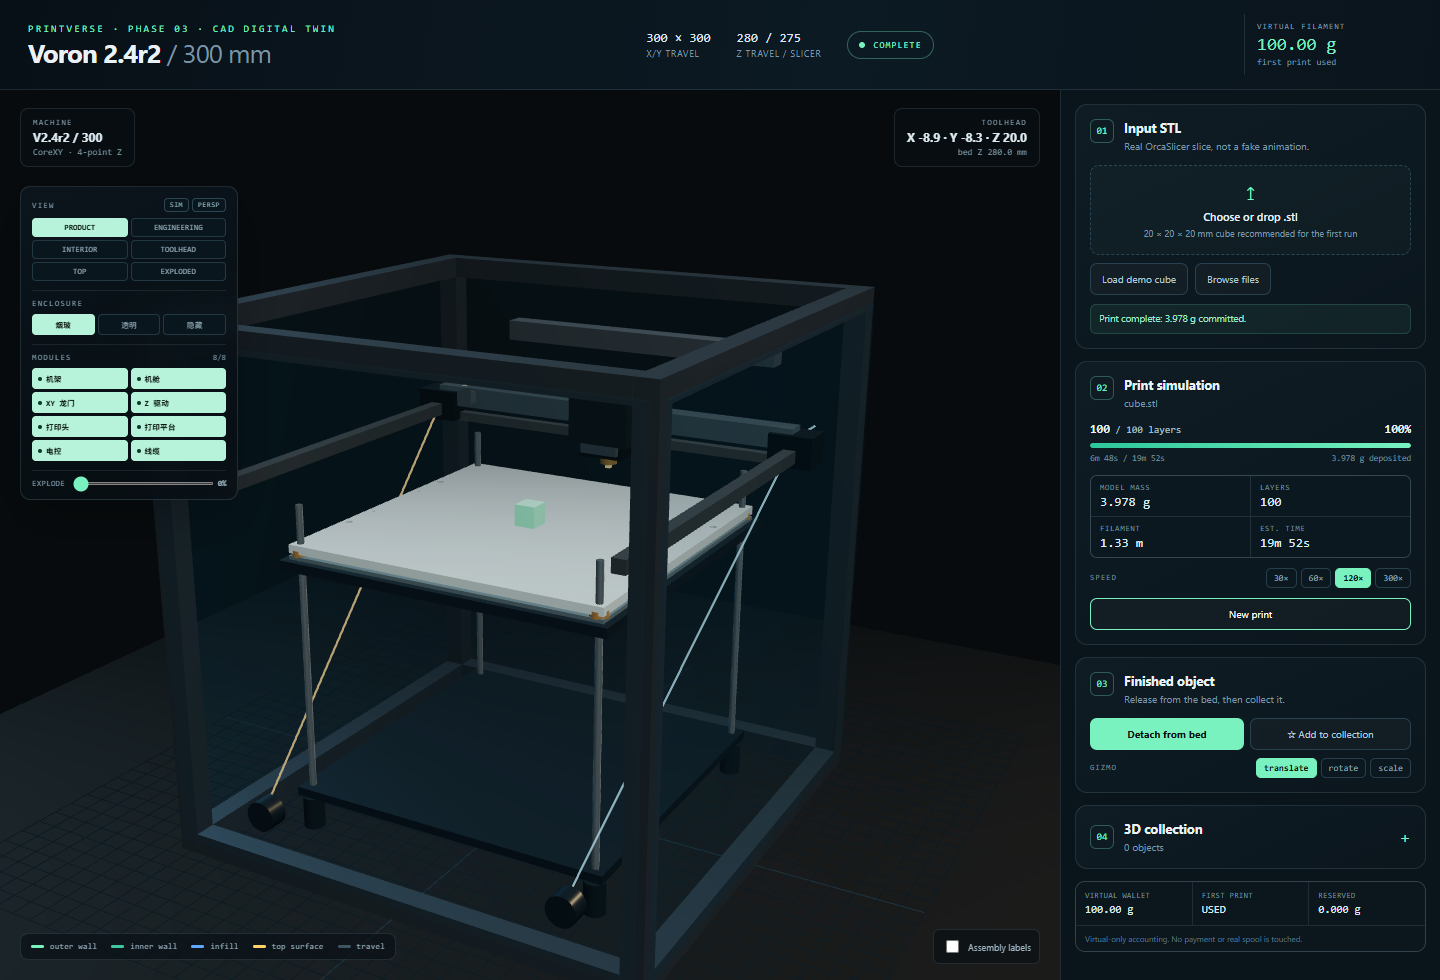
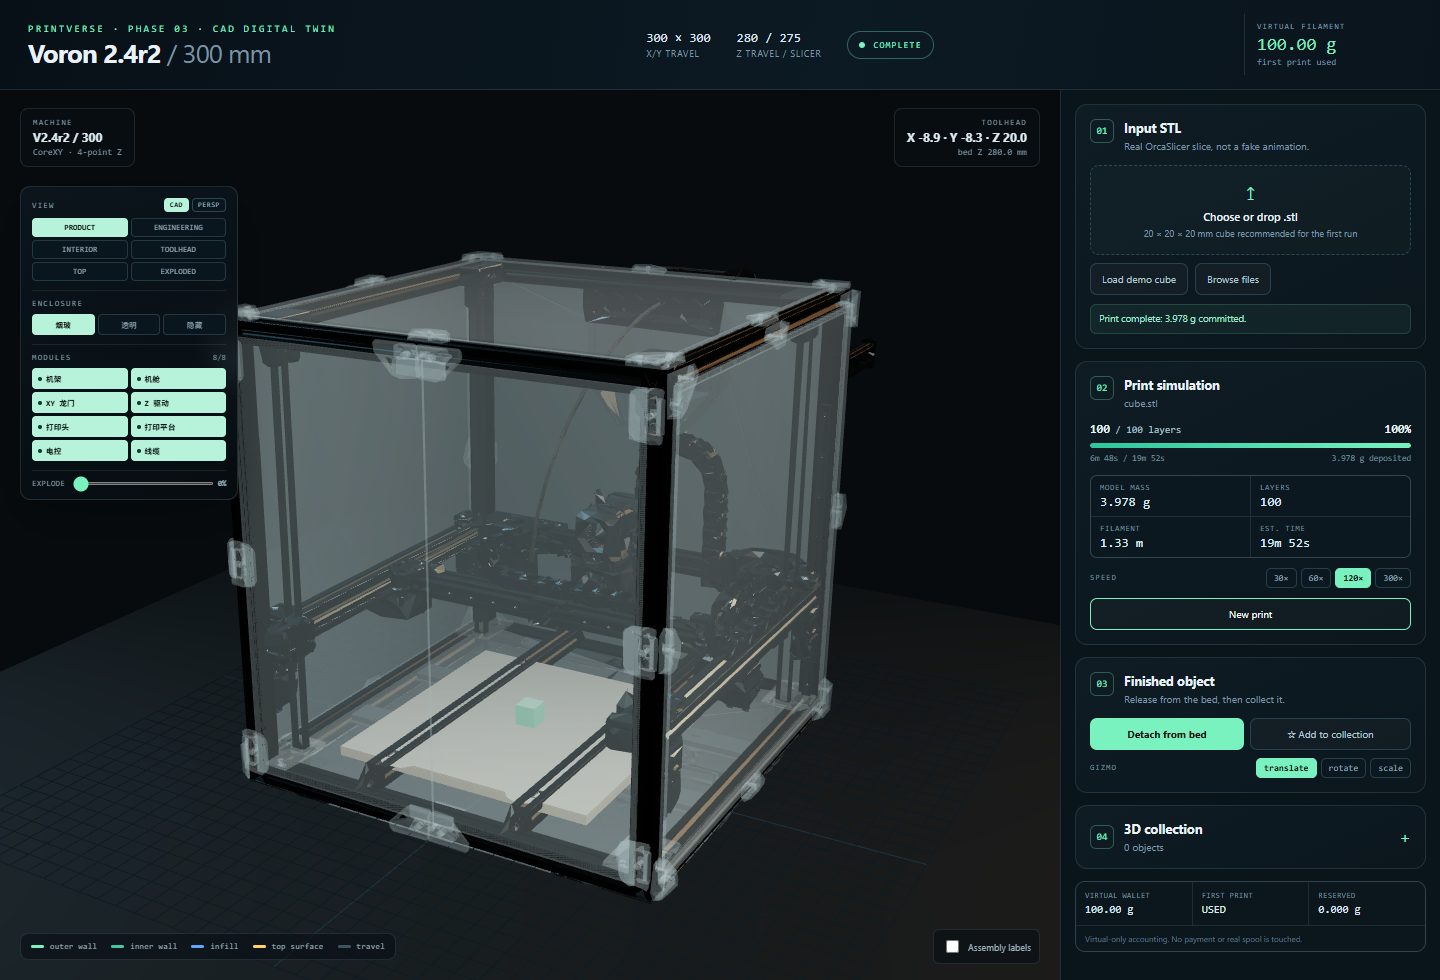
Drive real CAD toolhead and platform from G-code; final phase-3 evidence

Changed region(s): [[0.0938, 0.2449, 0.625, 1.0], [0.0, 0.6735, 0.0312, 0.7347], [0.0938, 0.1837, 0.125, 0.2143]]

diff --git a/frontend/src/components/RealModules.tsx b/frontend/src/components/RealModules.tsx
@@ -89,6 +89,7 @@ function Module({ id, url, visible, panelMode, ranges, onSelect }: {
 
 export function RealModules({
   visibleModules, panelMode, onSelect, zOffset = 0, explode = 0, highDetail = false, selectedPartId,
+  toolhead, bedZ,
 }: {
   visibleModules: Record<string, boolean>;
   panelMode: 'glass' | 'clear' | 'hidden';
@@ -97,6 +98,8 @@ export function RealModules({
   explode?: number;
   highDetail?: boolean;
   selectedPartId?: string | null;
+  toolhead?: { x: number; y: number };
+  bedZ?: number;
 }) {
   const [ranges, setRanges] = useState<Record<string, PartRange[]>>({});
   const [selected, setSelected] = useState<PartRecord | null>(null);
@@ -121,11 +124,19 @@ export function RealModules({
   } : null;
   return (
     <group position={[-127, -127, 58 + zOffset]} scale={1000}>
-      {Object.keys(MODULE_URLS).map((id) => (
-        <group key={id} position={[0, 0, explode * (id === 'TOOLHEAD' ? 0.25 : id === 'XY_GANTRY' ? 0.11 : id === 'Z_DRIVE' ? 0.055 : id === 'BUILD_PLATFORM' ? -0.08 : id === 'ELECTRONICS' ? 0.03 : 0)]}>
-          <Module id={id} url={(highDetail ? MODULE_URLS_HIGH : MODULE_URLS)[id]} visible={visibleModules[id] !== false} panelMode={panelMode} ranges={ranges[id] ?? []} onSelect={onSelect} />
-        </group>
-      ))}
+      {Object.keys(MODULE_URLS).map((id) => {
+        const motion: [number, number, number] = id === 'TOOLHEAD' && toolhead
+          ? [(toolhead.x - 6) / 1000, (toolhead.y - 15.5) / 1000, 0]
+          : id === 'BUILD_PLATFORM' && bedZ != null
+            ? [0, 0, (bedZ - 300) / 1000]
+            : [0, 0, 0];
+        const explodeZ = explode * (id === 'TOOLHEAD' ? 0.25 : id === 'XY_GANTRY' ? 0.11 : id === 'Z_DRIVE' ? 0.055 : id === 'BUILD_PLATFORM' ? -0.08 : id === 'ELECTRONICS' ? 0.03 : 0);
+        return (
+          <group key={id} position={[motion[0], motion[1], motion[2] + explodeZ]}>
+            <Module id={id} url={(highDetail ? MODULE_URLS_HIGH : MODULE_URLS)[id]} visible={visibleModules[id] !== false} panelMode={panelMode} ranges={ranges[id] ?? []} onSelect={onSelect} />
+          </group>
+        );
+      })}
       {selection && (
         <lineSegments geometry={edges} position={selection.center} scale={selection.size}>
           <lineBasicMaterial color="#79f2c0" transparent opacity={0.95} depthTest={false} />

diff --git a/frontend/src/components/PrintScene.tsx b/frontend/src/components/PrintScene.tsx
@@ -182,7 +182,21 @@ export function PrintScene({
 
       {cadMode ? (
         <Suspense fallback={null}>
-          <RealModules visibleModules={visibleModules} panelMode={panelMode} explode={explode} highDetail={viewPreset === 'toolhead' || viewPreset === 'interior'} selectedPartId={selectedPartName} onSelect={onPartSelect} />
+          <RealModules
+            visibleModules={visibleModules}
+            panelMode={panelMode}
+            explode={explode}
+            highDetail={viewPreset === 'toolhead' || viewPreset === 'interior'}
+            selectedPartId={selectedPartName}
+            toolhead={machineToolhead}
+            bedZ={tick.bedZ}
+            onSelect={onPartSelect}
+          />
+          {showPaths && (
+            <group position={[0, 0, tick.bedZ - 242]}>
+              <PrintPaths toolpath={toolpath} deposited={tick.deposited} />
+            </group>
+          )}
         </Suspense>
       ) : (
         <VoronMachine
@@ -194,7 +208,11 @@ export function PrintScene({
           explode={explode}
           visibleModules={visibleModules}
         >
-          {showPaths && <PrintPaths toolpath={toolpath} deposited={tick.deposited} />}
+          {showPaths && (
+            <group position={[0, 0, tick.bedZ]}>
+              <PrintPaths toolpath={toolpath} deposited={tick.deposited} />
+            </group>
+          )}
         </VoronMachine>
       )}
 
@@ -202,7 +220,7 @@ export function PrintScene({
         <Suspense fallback={null}>
           <FinishedObject
             modelUrl={modelUrl}
-            bedZ={tick.bedZ}
+            bedZ={cadMode ? tick.bedZ - 242 : tick.bedZ}
             detached={detached}
             mode={transformMode}
             showLabel={showLabels}

diff --git a/frontend/src/App.tsx b/frontend/src/App.tsx
@@ -134,7 +134,6 @@ export default function App() {
       setResetKey((n) => n + 1);
     }
     setError('');
-    setCadMode(false);
     setStatus('printing');
     setPlaying(true);
   }, [status, toolpath]);

diff --git a/scripts/build_manifest.py b/scripts/build_manifest.py
@@ -394,7 +394,7 @@ def main() -> int:
             "lod_bytes": 8919408,
             "hardware_fps": 60.1,
             "instancing": "PARTIAL / NOT_IMPLEMENTED",
-            "motion_hierarchy": "PARTIAL / CAD static display + proxy simulation",
+            "motion_hierarchy": "PARTIAL / toolhead+bed CAD motion; XY crossbeam static",
             "physical_z_clearance": "PHYSICAL_PENDING",
         },
         "blocked": [

diff --git a/PHASE3_COMPLETION_REPORT.md b/PHASE3_COMPLETION_REPORT.md
@@ -6,7 +6,7 @@ Date: 2026-11-06 · Project: PrintVerse · Machine: Voron V2.4r2 300
 
 | Goal | Status |
 |---|---|
-| A. Replace proxy geometry with real FreeCAD modules | **PARTIAL — major geometry COMPLETE; motion hierarchy not unified** |
+| A. Replace proxy geometry with real FreeCAD modules | **PARTIAL — real modules + toolhead/bed motion; XY crossbeam still static** |
 | B. High-end industrial 3D visual upgrade | **COMPLETE for the reviewed desktop views** |
 | 4,526 placements audit | **COMPLETE** |
 | Eight modular GLBs | **COMPLETE** |
@@ -17,9 +17,9 @@ Date: 2026-11-06 · Project: PrintVerse · Machine: Voron V2.4r2 300
 | Exact 275/280 resolution | **COMPLETE; physical clearance remains PHYSICAL_PENDING** |
 | Image-to-3D | **DEFERRED / BLOCKED by 8 GB VRAM** |
 
-Overall: **PARTIAL**. The visual and CAD conversion goals are substantially met, but two
-requirements are still open: the real CAD tree does not drive the G-code print animation, and
-repeated fasteners are merged rather than instanced. Neither is hidden.
+Overall: **PARTIAL**. The real CAD toolhead and platform now follow the G-code, but the XY
+crossbeam is still one merged static module and repeated fasteners are not instanced. Neither
+is hidden.
 
 ## 2. Current project state
 
@@ -116,10 +116,9 @@ Evidence: `docs/reports/phase2_e2e.json`.
 
 ## 6. Open items and next smallest steps
 
-1. **Unify motion tree (highest priority).** Use the real GLB module nodes for the G-code
-   animation instead of the proxy. The current `CAD` toggle switches to a static real model;
-   `SIM` switches to the proxy. Need one hierarchy with the moving toolhead/gantry/bed driven by
-   the same placement IDs and transforms.
+1. **Split the XY gantry crossbeam from its static rails.** The toolhead and platform now move
+   inside the real CAD hierarchy, but the whole XY_GANTRY module is still static. Split the
+   crossbeam into a movable node to complete CoreXY visualization.
 2. **InstancedMesh for fasteners.** Deduplicate screw/nut/washer geometry and use instanced
    matrices for the hundreds of repeated standard parts; keep part metadata in an instance map.
 3. **Wire harness.** WIRING currently has only one solid; cable-chain and wire geometry are
@@ -135,5 +134,6 @@ Evidence: `docs/reports/phase2_e2e.json`.
 
 The printer is no longer a decorative parts collage: the real frame, enclosure, gantry, Z drive,
 toolhead, platform, electronics and the one available wiring part are loaded from the official
-FreeCAD assembly. The default view is the real CAD model; the print animation still uses the
-separate kinematic proxy. This is why the overall phase status is **PARTIAL**, not COMPLETE.
+FreeCAD assembly. The toolhead and platform now move inside that real hierarchy during G-code
+playback. The XY crossbeam remains static and fasteners are not instanced, so the overall phase
+status is **PARTIAL**, not COMPLETE.

diff --git a/VISUAL_UPGRADE_REPORT.md b/VISUAL_UPGRADE_REPORT.md
@@ -59,7 +59,7 @@ The CAD mode uses a different target Z than the proxy so the real assembly is no
 
 After screenshots: `BEFORE_AFTER_SCREENSHOTS/after_front.png`, `after_interior.png`,
 `after_toolhead.png`, `after_top.png`, `after_z.png`, `after_bed.png`, `after_clear.png`,
-`after_exploded.png`, `after_part_inspector.png`, `after_cad_product.png`.
+`after_exploded.png`, `after_part_inspector.png`, `after_cad_product.png`, `after_printing_cad.png`.
 
 ## 3. Honest comparison
 
@@ -77,12 +77,12 @@ After screenshots: `BEFORE_AFTER_SCREENSHOTS/after_front.png`, `after_interior.p
 | Part identity | none | clickable placement with dimensions/path |
 | Transparency | fixed panel slab | glass/clear/hidden modes |
 | Explode | none | slider + preset |
-| Motion | proxy tree | proxy tree for print; real CAD tree is static |
+| Motion | proxy tree | real CAD toolhead and platform move with G-code; XY crossbeam static |
 
 ## 4. Still not complete
 
-1. The **real CAD tree is a static display**. The print animation still moves the proxy tree.
-   The requirement that motion and CAD share one hierarchy is **PARTIAL**.
+1. The real CAD toolhead and BUILD_PLATFORM now follow the G-code. The XY crossbeam is still
+   part of a static merged module, so the CoreXY gantry motion is **PARTIAL**.
 2. LOD is visible at close range on non-Toolhead modules; full detail is loaded only for
    Toolhead/Interior.
 3. `InstancedMesh` is not implemented; fasteners are merged into the LOD.

diff --git a/README.md b/README.md
@@ -8,8 +8,8 @@ AI 3D design platform, Voron V2.4r2 300 mm digital twin, G-code-driven virtual p
 >
 > Phase 3: **PARTIAL** — 4,526 FreeCAD placements, eight real module GLBs (1,686 parts), real
 > CAD default view with part picking, module modes, transparency, explode and studio lighting;
-> the G-code animation still uses the separate kinematic proxy, and InstancedMesh fasteners are
-> not implemented. See [PHASE3_COMPLETION_REPORT.md](PHASE3_COMPLETION_REPORT.md).
+> the real CAD toolhead and platform follow the G-code (XY crossbeam static), and InstancedMesh
+> fasteners are not implemented. See [PHASE3_COMPLETION_REPORT.md](PHASE3_COMPLETION_REPORT.md).
 >
 > Bootstrap status: **COMPLETE (A–J)** — see [PRINTVERSE_BOOTSTRAP_REPORT.md](PRINTVERSE_BOOTSTRAP_REPORT.md).
 > Official CAD/BOM/docs, FreeCAD/Blender/OrcaSlicer, Python 3.12 + build123d/OCP, Node/Three.js,

diff --git a/PERFORMANCE_REPORT.md b/PERFORMANCE_REPORT.md
@@ -69,8 +69,8 @@ Script: `scripts/phase3_perf_hw.mjs` (non-headless Edge, D3D11, window off-scree
   but should be compressed before deployment.
 - The LOD decimation is aggressive for small features (18% retained faces per large part); close
   inspection uses the full module mesh, but the merged LOD can show faceting at product scale.
-- The CAD mode and the print-simulation mode are still separate component trees; motion is not
-  yet driven by the 4,526-node CAD hierarchy.
+- The CAD mode now drives the real TOOLHEAD and BUILD_PLATFORM nodes; the XY crossbeam remains
+  static and is not yet a separate movable component.
 - Hardware FPS was measured with the CAD display only; the combined print animation plus CAD
   mode was not benchmarked on hardware.
 

diff --git a/MODEL_VALIDATION_REPORT.md b/MODEL_VALIDATION_REPORT.md
@@ -78,7 +78,7 @@ not an independent physical measurement. Details: `docs/reports/placement_sample
    open/inverted detail.
 3. The raw assembly envelope is 430×534.45×522 mm, not 460×460×480; spool/exhaust/cable outliers
    and assembly coordinates mean it must not be used as the frame envelope.
-4. Exact FreeCAD global coordinates are applied to the static CAD display; the print simulation
-   still uses the separate kinematic proxy for toolhead/bed motion.
+4. Exact FreeCAD global coordinates are applied to the CAD display. Toolhead and BUILD_PLATFORM
+   now take G-code motion inside that hierarchy; XY_GANTRY remains static.
 5. InstancedMesh is not used for repeated fasteners yet; this is a performance/quality item,
    not hidden.
